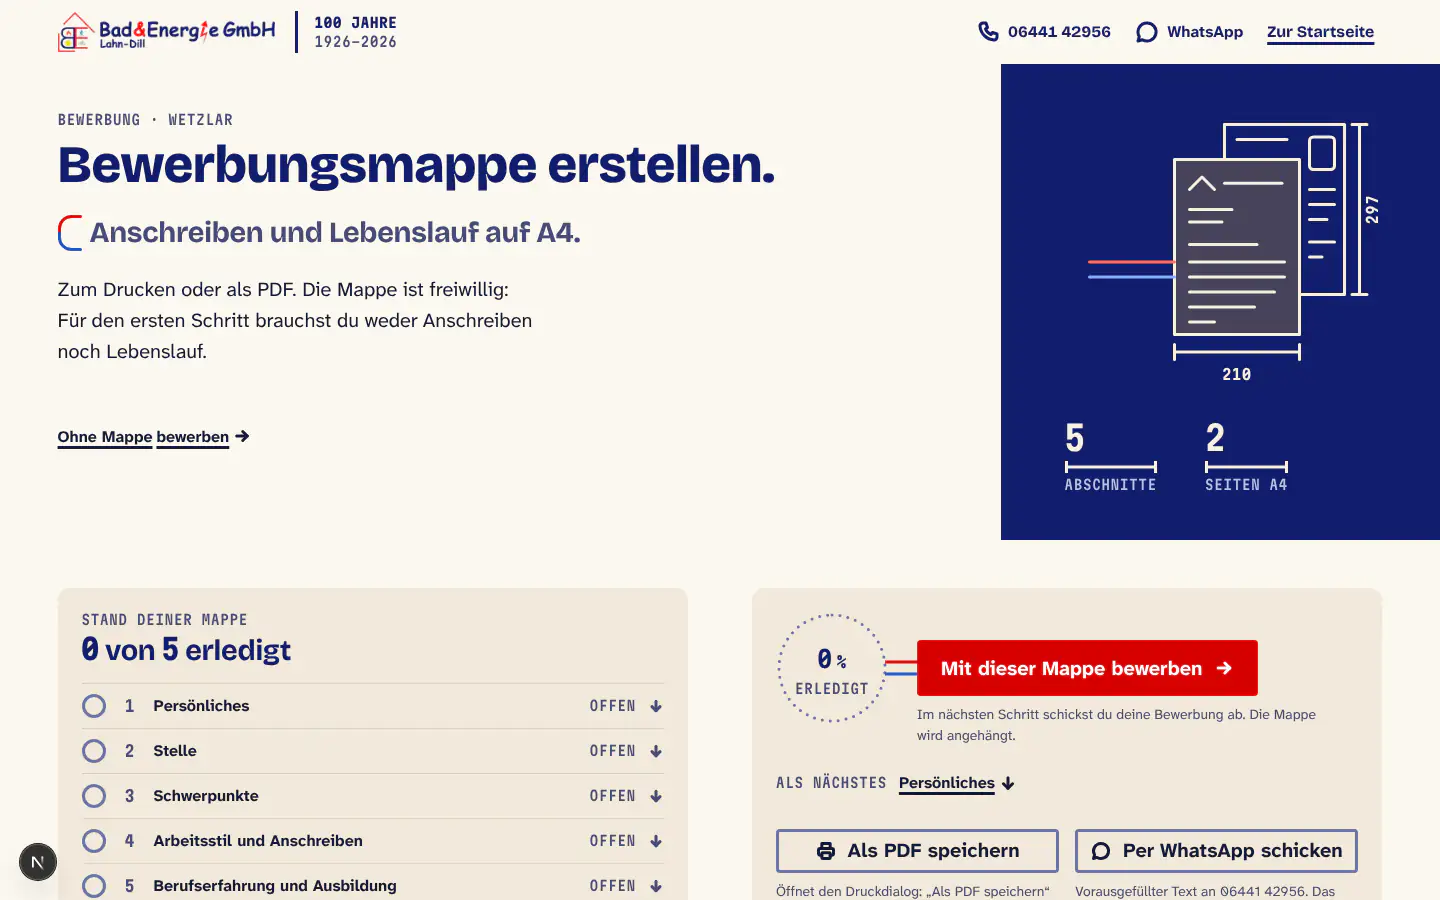
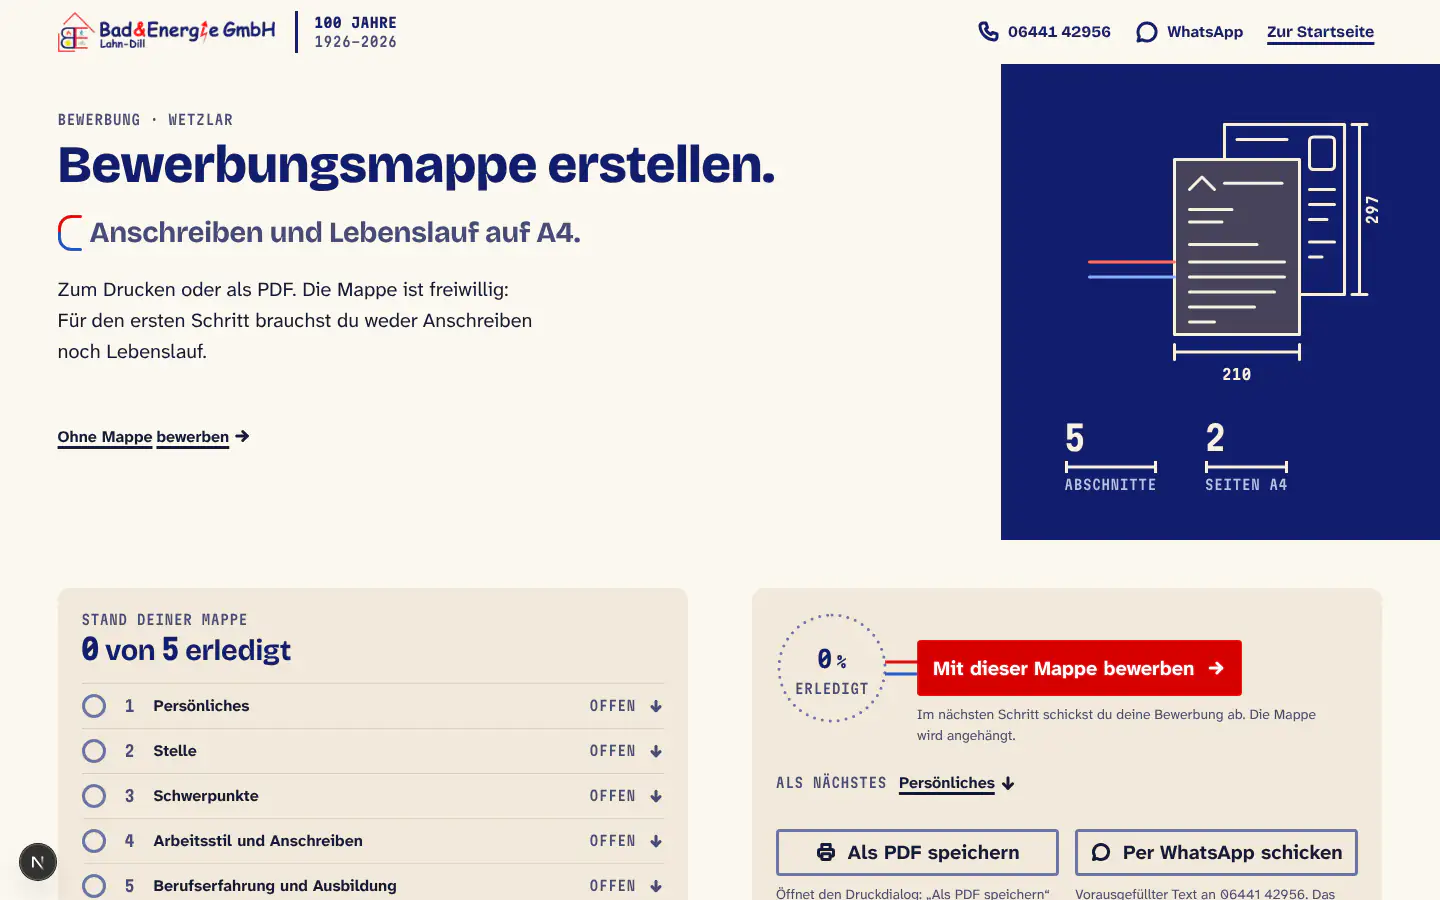
R5-APPLY-01, R5-BEW-01, R5-THANKS-01, R5-MAPPE-01: Bewerbung mit Fortschrittsstrang (E-BEW-003), Diskretionszusage am Kontaktschritt (E-BEW-004), Andere Wege (E-BEW-001), Passungs-Rahmung (E-START-013), Parameter (E-BEW-027), Regionalband (E-BEW-008), Unterlagen ehrlich deaktiviert (E-BEW-012, E-STA
Claude-Session: https://claude.ai/code/session_01UZPvzAHctwgYqWmbr5gTeZ

Changed region(s): [[0.5312, 0.9333, 0.9375, 1.0], [0.6562, 0.7156, 0.875, 0.7778]]

diff --git a/components/mappe/__tests__/seite.test.ts b/components/mappe/__tests__/seite.test.ts
@@ -1,0 +1,87 @@
+import { readFileSync } from 'node:fs';
+import path from 'node:path';
+import { createElement, type ReactElement } from 'react';
+import { renderToStaticMarkup } from 'react-dom/server';
+import { describe, expect, it, vi } from 'vitest';
+import { ToastProvider } from '@/components/ui/Toast';
+import { FACTS } from '@/lib/content/facts';
+import { MappeBlatt } from '../MappeBlatt';
+import { MAPPE_KOPF } from '../text';
+
+vi.mock('next/navigation', () => ({
+  useRouter: () => ({ push: vi.fn(), replace: vi.fn(), back: vi.fn(), prefetch: vi.fn(), refresh: vi.fn() }),
+  usePathname: () => '/bewerbung/mappe',
+}));
+
+const plain = (html: string) => html.replace(/<[^>]+>/g, ' ').replace(/&amp;/g, '&').replace(/\s+/g, ' ').trim();
+
+async function seite() {
+  const { default: BewerbungsmappePage, metadata } = await import('@/app/bewerbung/mappe/page');
+  const html = renderToStaticMarkup(createElement(ToastProvider, null, BewerbungsmappePage() as ReactElement));
+  return { html, metadata };
+}
+
+describe('Seite /bewerbung/mappe (R5-MAPPE-01, E-023)', () => {
+  it('trägt den Seitenkopf `arbeit` mit genau einer h1 und ohne rote Fläche im Kopf', async () => {
+    const { html } = await seite();
+    expect(html.match(/<h1/g)).toHaveLength(1);
+    expect(html).toMatch(/<h1 id="mappe-titel"[^>]*>Bewerbungsmappe erstellen\.<\/h1>/);
+    const kopf = /<header[^>]*data-seitenkopf="arbeit"[^>]*>/.exec(html)?.[0] ?? '';
+    expect(kopf).toContain('print-hidden');
+    expect(kopf).not.toContain('data-primary-cta');
+    // Die eine rote Hauptaktion steht am Pult des Werkzeugs
+    expect(html.match(/bg-accent /g)).toHaveLength(1);
+  });
+
+  it('nennt im Kopf nur Belegtes: freiwillig (noCvNeeded), zwei Blätter A4, fünf Abschnitte, Weg ohne Mappe', async () => {
+    const { html } = await seite();
+    const text = plain(html);
+    expect(text).toContain(FACTS.noCvNeeded.long);
+    expect(text).toContain('Anschreiben und Lebenslauf auf A4.');
+    expect(text).toContain('5 Abschnitte');
+    expect(text).toContain('2 Seiten A4');
+    expect(html).toMatch(/<a[^>]*href="\/bewerbung"[^>]*>Ohne Mappe /);
+    expect(MAPPE_KOPF.masse.map((mass) => mass.wert)).toEqual(['5', '2']);
+  });
+
+  it('bleibt außerhalb des Index (Metadaten unverändert)', async () => {
+    const { metadata } = await seite();
+    expect(metadata.title).toBeDefined();
+    expect(JSON.stringify(metadata.robots)).toMatch(/"index":false/);
+  });
+});
+
+describe('MappeBlatt: Zeichnung des Kopfs (K-010)', () => {
+  const html = renderToStaticMarkup(createElement(MappeBlatt));
+
+  it('ist dekorativ, ohne Bewegung, mit Vorlauf und Rücklauf ins Anschreiben und den Maßen 210 und 297', () => {
+    expect(html).toContain('aria-hidden="true"');
+    expect(html).not.toContain('data-motion');
+    expect(html).toContain('data-zeichnung="mappe-blatt"');
+    expect(html).toContain('>210</text>');
+    expect(html).toContain('>297</text>');
+    expect(html).not.toMatch(/#[0-9a-f]{3,8}\b/i);
+  });
+
+  it('bleibt unter dem Budget für Illustrationen (K-013)', () => {
+    expect(Buffer.byteLength(html)).toBeLessThan(4096);
+  });
+});
+
+describe('Druck-Tokenskala der Blätter (E-011, S-05)', () => {
+  const css = readFileSync(path.join(__dirname, '../mappe.module.css'), 'utf8').replace(/\/\*[\s\S]*?\*\//g, '');
+
+  it('nennt pt und mm nur in den --blatt-Tokens; die Regeln verwenden nur Tokens', () => {
+    for (const zeile of css.split('\n')) {
+      if (/\d(?:pt|mm)\b/.test(zeile)) expect(zeile.trim()).toMatch(/^--blatt-[a-z-]+:\s*[\d.]+(?:pt|mm);$/);
+    }
+    for (const m of css.matchAll(/font-size:\s*([^;]+);/g)) expect(m[1]).toMatch(/^var\(--/);
+  });
+
+  it('hält das Blatt im Druck auf A4 und lässt nur die Blätter drucken', () => {
+    const druck = css.slice(css.lastIndexOf('@media print'));
+    expect(druck).toMatch(/\.page\s*\{[^}]*width:\s*var\(--blatt-breite\)/);
+    expect(druck).toMatch(/\.page\s*\{[^}]*break-after:\s*page/);
+    expect(druck).toMatch(/\.seite\s*\{[^}]*position:\s*static/);
+  });
+});

diff --git a/components/mappe/__tests__/MappeTool.test.ts b/components/mappe/__tests__/MappeTool.test.ts
@@ -65,7 +65,7 @@ describe('MappeTool (server render)', () => {
     expect(section).toContain(styles.vorschauRahmen);
     expect(section).toMatch(/\brounded-2\b/);
     expect(section).toContain('tabindex="0"');
-    // The frame scrolls inside the sticky column from 64em on (mappe.module.css).
+    // The frame scrolls inside the sticky column from 64em wide and 56em tall (mappe.module.css).
     const css = readFileSync(path.join(__dirname, '../mappe.module.css'), 'utf8');
     const desktop = css.slice(css.indexOf('@media (min-width: 64em)'));
     expect(desktop).toMatch(/\.vorschauRahmen\s*\{[^}]*overflow-y:\s*auto/);
@@ -98,7 +98,7 @@ describe('Mappe-Stand (E-BEW-006/007) on an empty mappe', () => {
   });
 
   it('links each checklist entry to an existing section anchor, in editor order', () => {
-    const liste = /<ol[^>]*aria-label="Abschnitte der Mappe"[^>]*>(.*?)<\/ol>/s.exec(html)?.[1] ?? '';
+    const liste = /<ol[^>]*aria-label="Abschnitte der Mappe"[^>]*>([\s\S]*?)<\/ol>/.exec(html)?.[1] ?? '';
     const ziele = [...liste.matchAll(/href="#([^"]+)"/g)].map((m) => m[1]);
     expect(ziele).toEqual(MAPPE_ABSCHNITTE.map((abschnitt) => abschnitt.id));
     for (const id of ziele) expect(html).toContain(`<section id="${id}"`);
@@ -118,7 +118,7 @@ describe('Mappe-Stand (E-BEW-006/007) on an empty mappe', () => {
 
   it('points „Als Nächstes“ to the first open section and lets the pair run into the main action', () => {
     expect(text).toContain('Als Nächstes Persönliches');
-    const knopf = /<button[^>]*>(?:(?!<\/button>).)*Mit dieser Mappe bewerben/s.exec(html)?.[0] ?? '';
+    const knopf = /<button[^>]*>(?:(?!<\/button>)[\s\S])*Mit dieser Mappe bewerben/.exec(html)?.[0] ?? '';
     expect(knopf).toContain('after:border-l-vorlauf');
     expect(knopf).toContain('bg-accent');
   });

diff --git a/components/mappe/MappeActions.tsx b/components/mappe/MappeActions.tsx
@@ -103,7 +103,7 @@ export function MappeActions({
           )}
         </div>
         <div className={styles.pultHaupt}>
-          <Button size="lg" leitung="oben" loading={busy} onClick={onPrimary} className={styles.pultKnopf}>
+          <Button size="lg" wrap leitung="oben" loading={busy} onClick={onPrimary} className={styles.pultKnopf}>
             {primaryLabel}
             <Icon name="arrow-right" size="md" />
           </Button>
@@ -113,14 +113,14 @@ export function MappeActions({
 
       <div className={styles.pultWege}>
         <div className={styles.pultWeg}>
-          <Button variant="outline" onClick={onPrint} fullWidth>
+          <Button variant="outline" wrap onClick={onPrint} fullWidth className={styles.pultWegKnopf}>
             <Icon name="printer" size="md" />
             Als PDF speichern
           </Button>
           <p className="text-footnote text-ink-2">Öffnet den Druckdialog: „Als PDF speichern“ wählen oder direkt drucken.</p>
         </div>
         <div className={styles.pultWeg}>
-          <Button variant="outline" fullWidth asChild>
+          <Button variant="outline" wrap fullWidth asChild className={styles.pultWegKnopf}>
             <a href={whatsappHref} target="_blank" rel="noopener noreferrer" data-mappe-whatsapp="">
               <Icon name="message-circle" size="md" />
               Per WhatsApp schicken

diff --git a/components/mappe/mappe.module.css b/components/mappe/mappe.module.css
@@ -85,20 +85,30 @@
     display: none;
   }
 
-  /* Pult und Vorschau haften unter dem Kopf; die Vorschau scrollt in sich, das Pult bleibt ganz sichtbar */
   .seite {
     grid-column: 3;
     grid-row: 1;
+    gap: var(--a-5);
+  }
+
+  .vorschau {
+    gap: var(--a-3);
+  }
+}
+
+/* Ab 56em Höhe haften Pult und Vorschau unter dem Kopf; die Vorschau scrollt in sich, das Pult bleibt ganz
+   sichtbar. Darunter (Laptops, 1280 × 800, 1366 × 768) bliebe der Vorschau unter dem Pult zu wenig Höhe: Dann läuft
+   die Spalte mit der Seite, und die Blätter stehen in voller Höhe neben dem Editor. */
+@media (min-width: 64em) and (min-height: 56em) {
+  .seite {
     position: sticky;
     top: calc(var(--m-kopf) + var(--a-4));
     max-height: calc(100dvh - var(--m-kopf) - var(--a-4) - var(--a-5));
-    gap: var(--a-5);
   }
 
   .vorschau {
     flex: 1 1 auto;
     min-height: 0;
-    gap: var(--a-3);
   }
 
   .vorschauRahmen {
@@ -376,9 +386,17 @@
     margin-top: var(--a-4);
   }
 
+}
+
+/* Zweitwege nebeneinander erst, wenn beide Beschriftungen einzeilig passen; schmaler untereinander */
+@container pult (min-width: 36rem) {
   .pultWege {
     grid-template-columns: repeat(2, minmax(0, 1fr));
     column-gap: var(--a-4);
+  }
+
+  .pult .pultWegKnopf {
+    white-space: nowrap;
   }
 }
 
